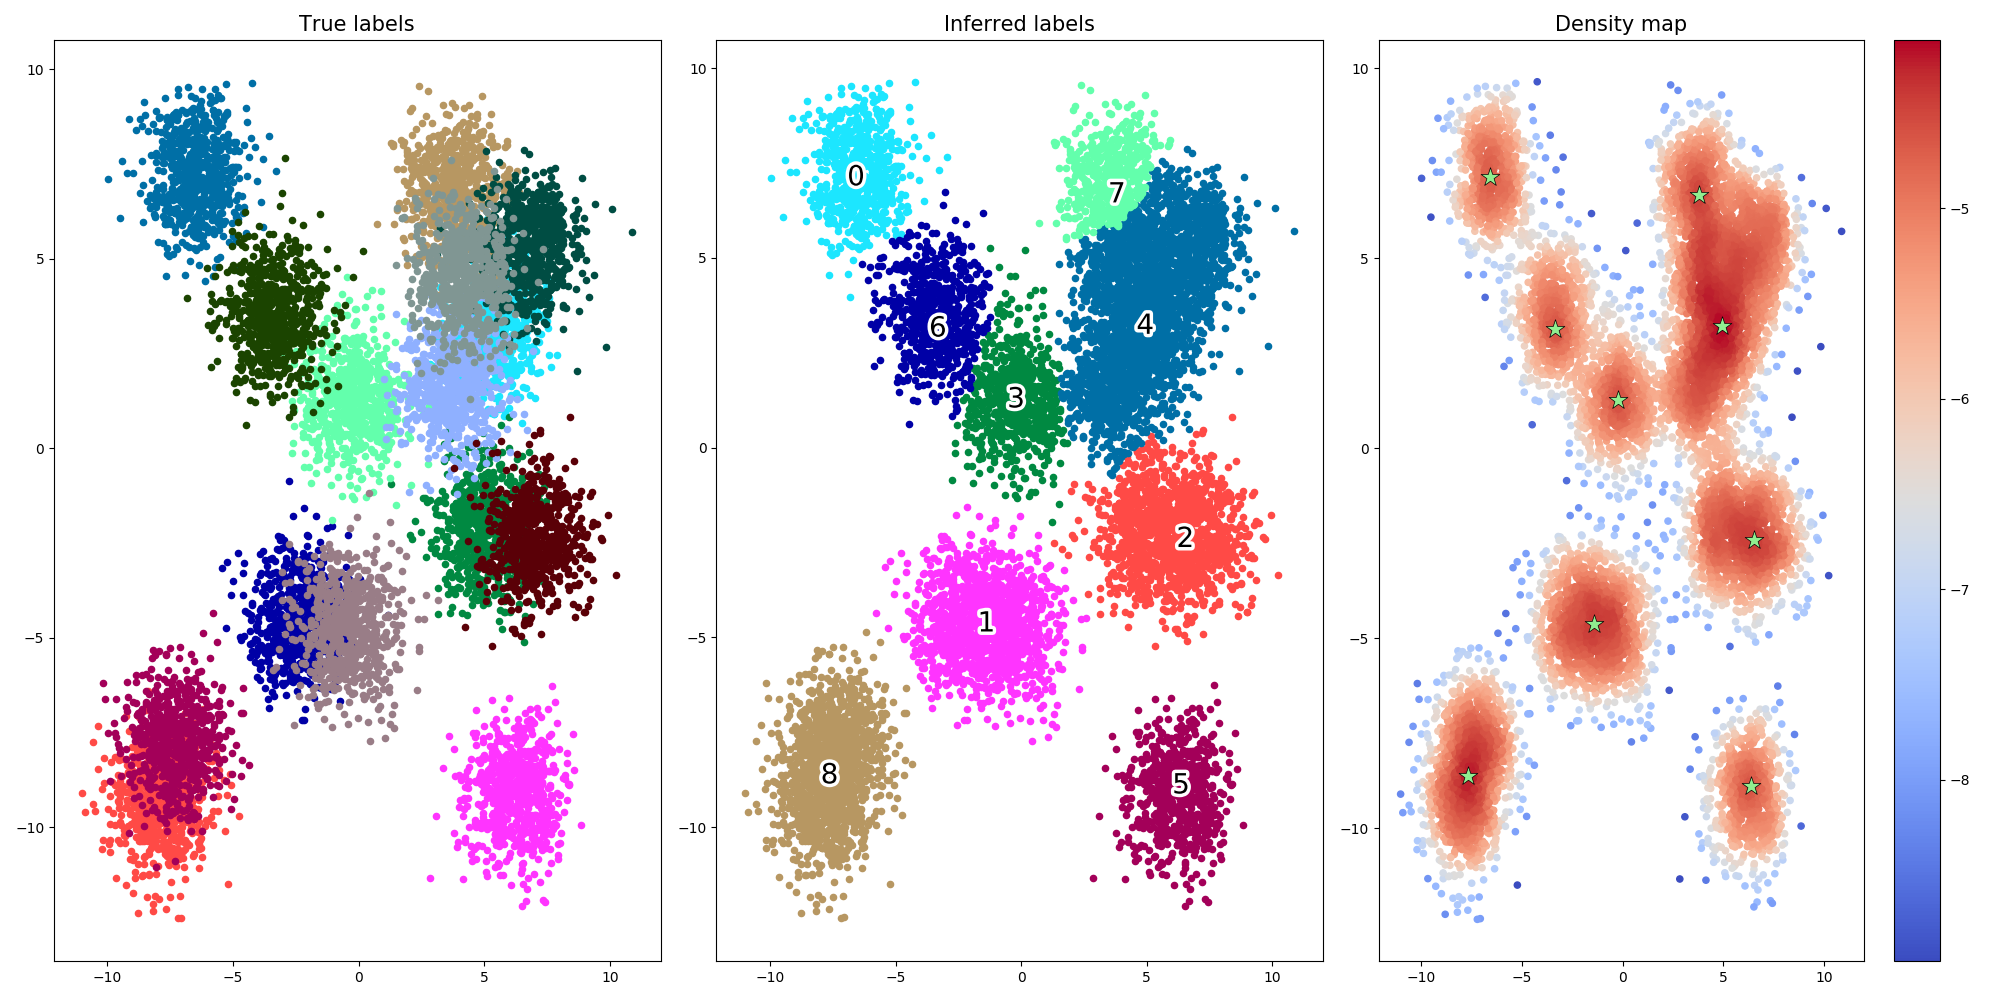
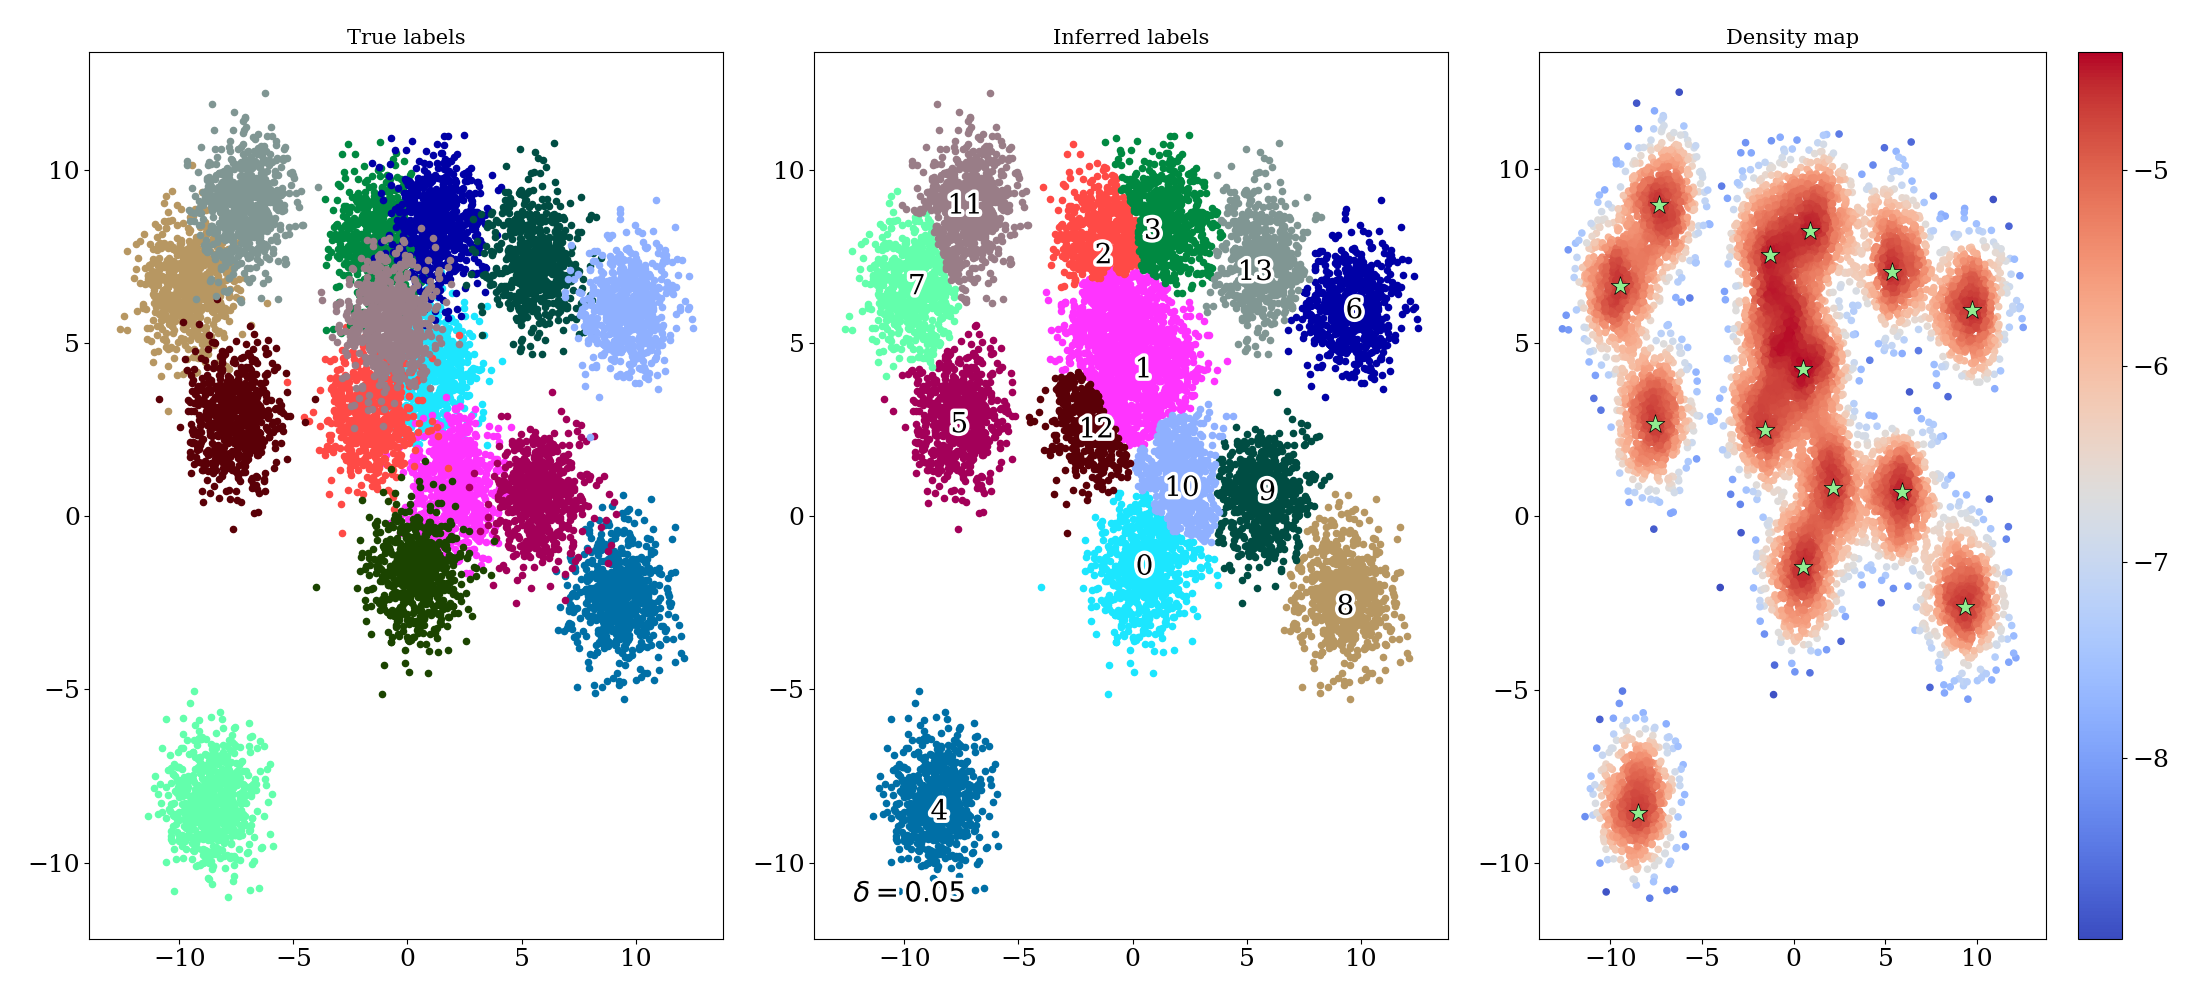
updated examples

diff --git a/fdc/plotting.py b/fdc/plotting.py
@@ -176,7 +176,7 @@ plot_to_show = None
 
     plt.clf()
 
-def summary_model(model, delta=None, show=True, savefile = None, delta_show = True):
+def summary_model(model, delta=None, ytrue = None, show=True, savefile = None, delta_show = True):
     """ Summary figure passing in only an FDC object (model), noise can be specified via the delta parameter """
     
     if delta is None:
@@ -191,7 +191,7 @@ def summary_model(model, delta=None, show=True, savefile = None, delta_show = Tr
 
     rho = model.rho
     X = model.X
-    summary(idx_centers, cluster_label, rho, X, delta = delta_, show=show, savefile=savefile, delta_show=delta_show)
+    summary(idx_centers, cluster_label, rho, X, y=ytrue, delta = delta_, show=show, savefile=savefile, delta_show=delta_show)
 
 def inferred_label(model, delta=None, show=True, savefile = None, delta_show = True, fontsize =15, psize = 20):
 

diff --git a/example/example.py b/example/example.py
@@ -11,17 +11,20 @@ from fdc import FDC
 from sklearn.datasets import make_blobs
 from fdc import plotting
 import pickle
+import numpy as np
 
 n_true_center = 15
+
+np.random.seed(0)
+
 print("------> Example with %i true cluster centers <-------"%n_true_center)
+
 X, y = make_blobs(10000, 2, n_true_center) # Generating random gaussian mixture
 
 model = FDC(noise_threshold=0.05, nh_size=40) # specifying density clustering parameters
 
 model.fit(X) # performing the clustering
 
-cluster_label, idx_centers, rho = model.cluster_label, model.idx_centers, model.rho # extracting information for plotting
-
 plotting.set_nice_font() # nicer plotting font !
 
-plotting.summary(idx_centers, cluster_label, rho, X, n_true_center, y, savefile="result.png",show=True) # plotting clusters
+plotting.summary_model(model, ytrue=y, show=True, savefile="result.png")

diff --git a/example/example2.py b/example/example2.py
@@ -53,13 +53,12 @@ for i_dataset, dataset in enumerate(datasets):
     model=FDC(noise_threshold=noise_threshold, nh_size=nh_size)
     s=time.time()
     model.fit(X)
-    cluster_label, idx_centers, rho = model.cluster_label, model.idx_centers, model.rho
     dt=time.time()-s
 
-    n_center=len(idx_centers)
+    n_center=len(model.idx_centers)
 
     plt.subplot(2,2,plot_num)
-    plt.scatter(X[:, 0], X[:, 1], color=colors[cluster_label].tolist(), s=10,zorder=1)
+    plt.scatter(X[:, 0], X[:, 1], color=colors[model.cluster_label].tolist(), s=10,zorder=1)
     plt.text(.99, .01, ('%.2fs' % (dt)).lstrip('0'),
                  transform=plt.gca().transAxes, size=25,
                  horizontalalignment='right',zorder=2)

diff --git a/fdc/density_estimation.py b/fdc/density_estimation.py
@@ -26,7 +26,6 @@ class KDE():
         ratio of the test size for determining the bandwidth.
     """
 
-
     def __init__(self, bandwidth = None, test_ratio_size = 0.1,
                 xtol = 0.01, atol=0.000005, rtol=0.00005, extreme_dist = False,
                 nn_dist = None):
